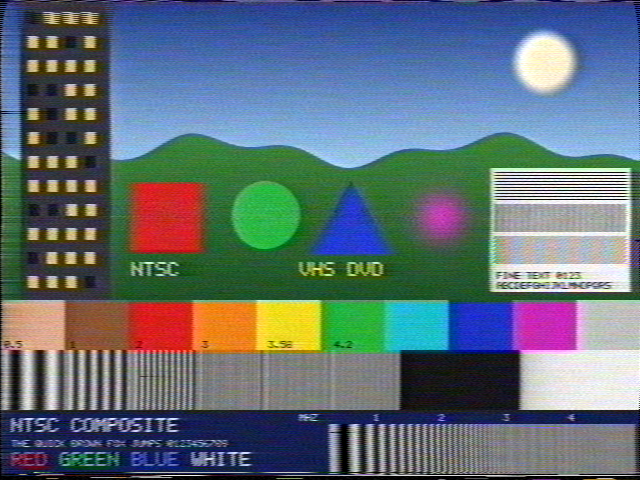
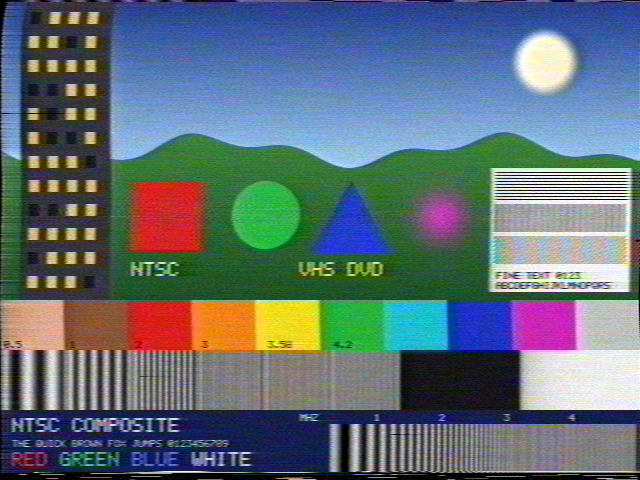
presets: add the deck-vhs-decode playback profile
An RF capture decoded by vhs-decode and exported with tbc-video-export:
no deck noise canceller, noise reducers, sharpening or DNR; full line
TBC and field alignment (software re-timing from sync); separate Y/C
decoded like S-Video; luma dropout correction. The tape model and wear
come from the preset. README deck table and sample images updated (all
samples regenerated for this branch's preset changes).

diff --git a/src/presets.rs b/src/presets.rs
@@ -290,6 +290,24 @@ pub static DECKS: &[BuiltinPreset] = &[
                       reducer off",
         values: &[("deck-sharpness", "0"), ("deck-nc", "0"), ("deck-cnr", "0")],
     },
+    BuiltinPreset {
+        name: "deck-vhs-decode",
+        group: "Deck",
+        description: "vhs-decode RF capture: the head signal demodulated in software, no VCR playback electronics. Every \
+                      line re-timed from its sync, fields aligned, separate luma and chroma, luma dropouts corrected, no \
+                      noise canceller, noise reducers or sharpening",
+        values: &[
+            ("line-tbc", "1"),
+            ("frame-tbc", "1"),
+            ("video-out", "svideo"),
+            ("deck-nc", "0"),
+            ("deck-ynr", "0"),
+            ("deck-cnr", "0"),
+            ("deck-sharpness", "0"),
+            ("deck-dnr", "0"),
+            ("doc", "luma"),
+        ],
+    },
 ];
 
 /// Look up a deck profile by name.

diff --git a/CHANGELOG.md b/CHANGELOG.md
@@ -2,6 +2,8 @@
 
 Newest first.
 
+- **`deck-vhs-decode` playback profile**: an RF capture decoded by vhs-decode and exported with tbc-video-export, in the GUI's Playback deck list and as `--deck deck-vhs-decode`. No VCR electronics (noise canceller, line and colour noise reducers, sharpening and deck noise reduction off; vhs-decode's sharpness defaults to 0); every line re-timed from its sync and fields aligned in software (`--line-tbc 1 --frame-tbc 1`), so the head-switch rows stay but the lines after the switch are straightened; separate luma and chroma files decoded like S-Video (`--video-out svideo`; tbc-video-export's NTSC default for Y/C is ntsc2d on the chroma file); luma dropouts corrected from neighbouring lines (`--doc luma`, the closest option: tbc-video-export corrects the luma file only). vhs-decode's own chroma comb is on by default, as the tape presets' `--chroma-vblur 1`. The tape side (tape model, wear, dropouts) comes from the preset; `--tape-model rf` is not part of the profile (about four times slower, and the FM model already gives the demodulated noise). README sample images regenerated for all changes on this branch (not the GUI screenshot).
+
 - **Adaptive 2D comb (`--comb 2d`)**: a 3-line adaptive comb, as in most TVs and broadcast monitors from the late 1980s on: the full 3-line comb where the lines above and below match, else a 2-line comb with whichever neighbour matches, else the 2-sample comb. Clean colour bars (no effects, `cargo run --release --example clean_decode`): largest frame-to-frame luma change (dot crawl) 35.6 -> 2.1 8-bit levels and mean 1.27 -> 0.01 against the default 2-sample comb, cross-colour at a black-to-white edge 3.6 -> 0.0, no hanging dots on horizontal colour edges (the `1h` comb: 201). Hue (within 0.4°), saturation (within 1 %) and chroma transitions (10-90 % in 9-12 px, set by the NTSC I/Q bandwidths) are the same for every comb and already match a clean receiver; the dots at the bar edges were the 2-sample comb's. The default stays `2sample`, since the effects-off output is in the legacy lock. Locked in the presets lock (`none+2d`).
 
 - **Head switch at the same height in both fields**: with `--head-switch-point` field 2 tore one line fewer than field 1 (`point − 4` against `point − 3` lines), so its switch fell a line and a half higher on the screen and the bottom rows alternated between torn lines and picture. Field 2's picture ends half a line closer to the next vertical interval, so it now has `point − 2.5` lines after the switch: both fields switch at the same height and the torn rows form one band (flat-area luma difference between the fields in the head-switch rows, `mq`: 61 -> 25 8-bit levels, within one field 45). `lq`/`mq`/`hq` locks updated.

diff --git a/README.md b/README.md
@@ -178,14 +178,17 @@ Deck profiles combine with any preset. The images show `lq` with each deck, rend
 | ![lq without a deck profile](docs/images/deck_none.png) | ![lq with deck-basic](docs/images/deck-basic.png) |
 | **`lq --deck deck-svhs-tbc`** | **`lq --deck deck-edit`** |
 | ![lq with deck-svhs-tbc](docs/images/deck-svhs-tbc.png) | ![lq with deck-edit](docs/images/deck-edit.png) |
+| **`lq --deck deck-vhs-decode`** | |
+| ![lq with deck-vhs-decode](docs/images/deck-vhs-decode.png) | |
 
 | Profile | What it is | Settings |
 |---|---|---|
 | `deck-basic` | ordinary consumer VCR: composite output, no TBC | `--deck-nc 4 --deck-sharpness 0.4 --doc luma` |
 | `deck-svhs-tbc` | high-end S-VHS deck with line and frame TBC, recursive noise reduction, S-Video out (3D comb for composite captures) | `--line-tbc 0.9 --frame-tbc 1 --deck-dnr 0.5 --comb 3d --video-out svideo --deck-nc 5 --deck-ynr 1 --deck-cnr 1 --deck-sharpness 0.2 --doc luma` |
 | `deck-edit` | edit mode as on pro decks for dubbing (e.g. JVC BR-S422): no sharpening, noise canceller and colour noise reducer off | `--deck-sharpness 0 --deck-nc 0 --deck-cnr 0` |
+| `deck-vhs-decode` | an RF capture decoded by vhs-decode and exported with tbc-video-export: no VCR playback electronics; every line re-timed from its own sync and the fields aligned in software; separate luma and chroma files, decoded like S-Video; luma dropouts corrected from neighbouring lines (colour muted here, as the closest option); vhs-decode's own 1H chroma comb is on by default, as in the tape presets; sharpness 0 | `--line-tbc 1 --frame-tbc 1 --video-out svideo --deck-nc 0 --deck-ynr 0 --deck-cnr 0 --deck-sharpness 0 --deck-dnr 0 --doc luma` |
 
-The `lq` preset already includes a typical consumer deck (noise canceller, sharpness, luma dropout compensator), so `deck-basic` changes it only slightly. `deck-edit` leaves source enhancement (`--edge-ringing`) and the line noise reducer as they are set.
+The `lq` preset already includes a typical consumer deck (noise canceller, sharpness, luma dropout compensator), so `deck-basic` changes it only slightly. `deck-edit` leaves source enhancement (`--edge-ringing`) and the line noise reducer as they are set. `deck-vhs-decode` keeps the tape (the preset's tape model, wear, head switching and dropouts) and replaces only the playback deck; the head-switching rows stay, as in vhs-decode output, but the lines after the switch are re-timed. Its tape model stays `fm`: vhs-decode demodulates the RF in software, and `--tape-model rf` (the FM channel itself, about four times slower) can be added for the RF channel's own clicks and dropout streaks.
 
 ### Preset files
 
